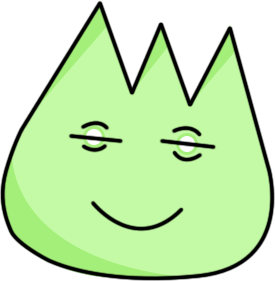
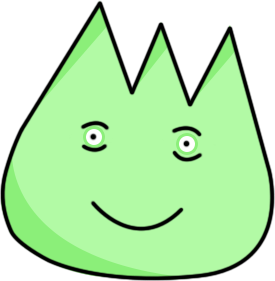
Working Strart
Changed character apearance and added basic movement on a empty 'map'.

diff --git a/Assets/Scripts/PlayerController.cs b/Assets/Scripts/PlayerController.cs
@@ -2,15 +2,23 @@
 using System.Collections.Generic;
 using UnityEngine;
 
-public class PlayerController : MonoBehaviour {
+public class PlayerController : MonoBehaviour
+{
 
-	// Use this for initialization
-	void Start () {
-		
-	}
-	
-	// Update is called once per frame
-	void Update () {
-		
-	}
+    public float moveSpeed;
+
+    // Use this for initialization
+    void Start()
+    {
+
+    }
+
+    // Update is called once per frame
+    void Update()
+    {
+        float moveHorizontal = Input.GetAxis("Horizontal") * moveSpeed * Time.deltaTime;
+        float moveVertical = Input.GetAxis("Vertical") * moveSpeed * Time.deltaTime;
+
+        transform.Translate(new Vector3(moveHorizontal, moveVertical));
+    }
 }
